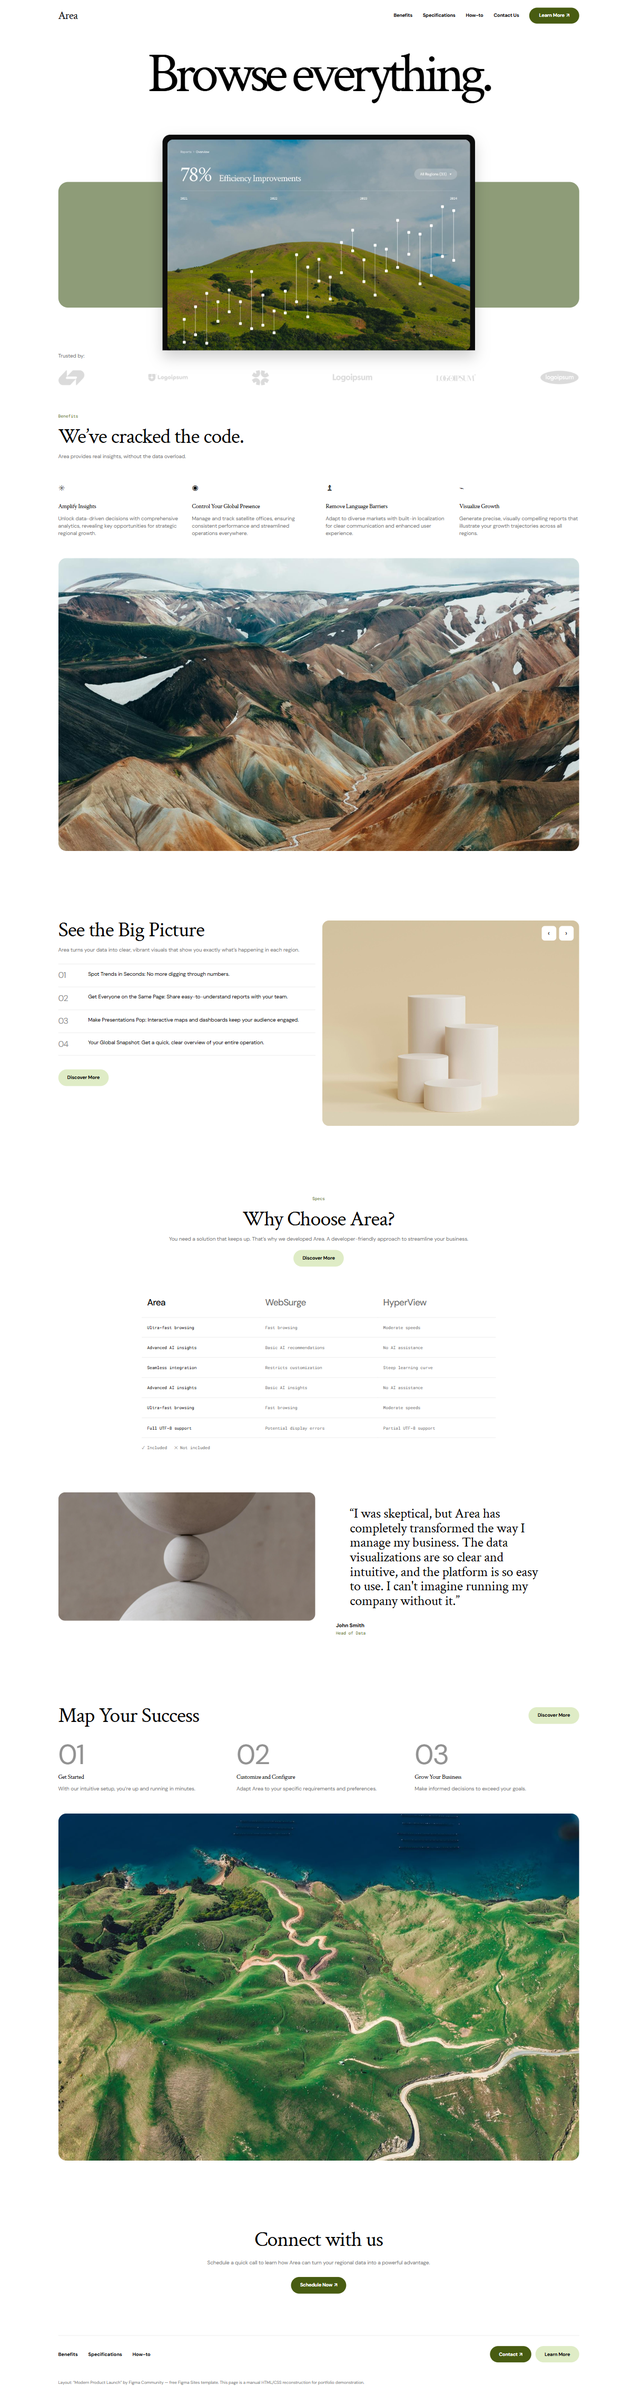
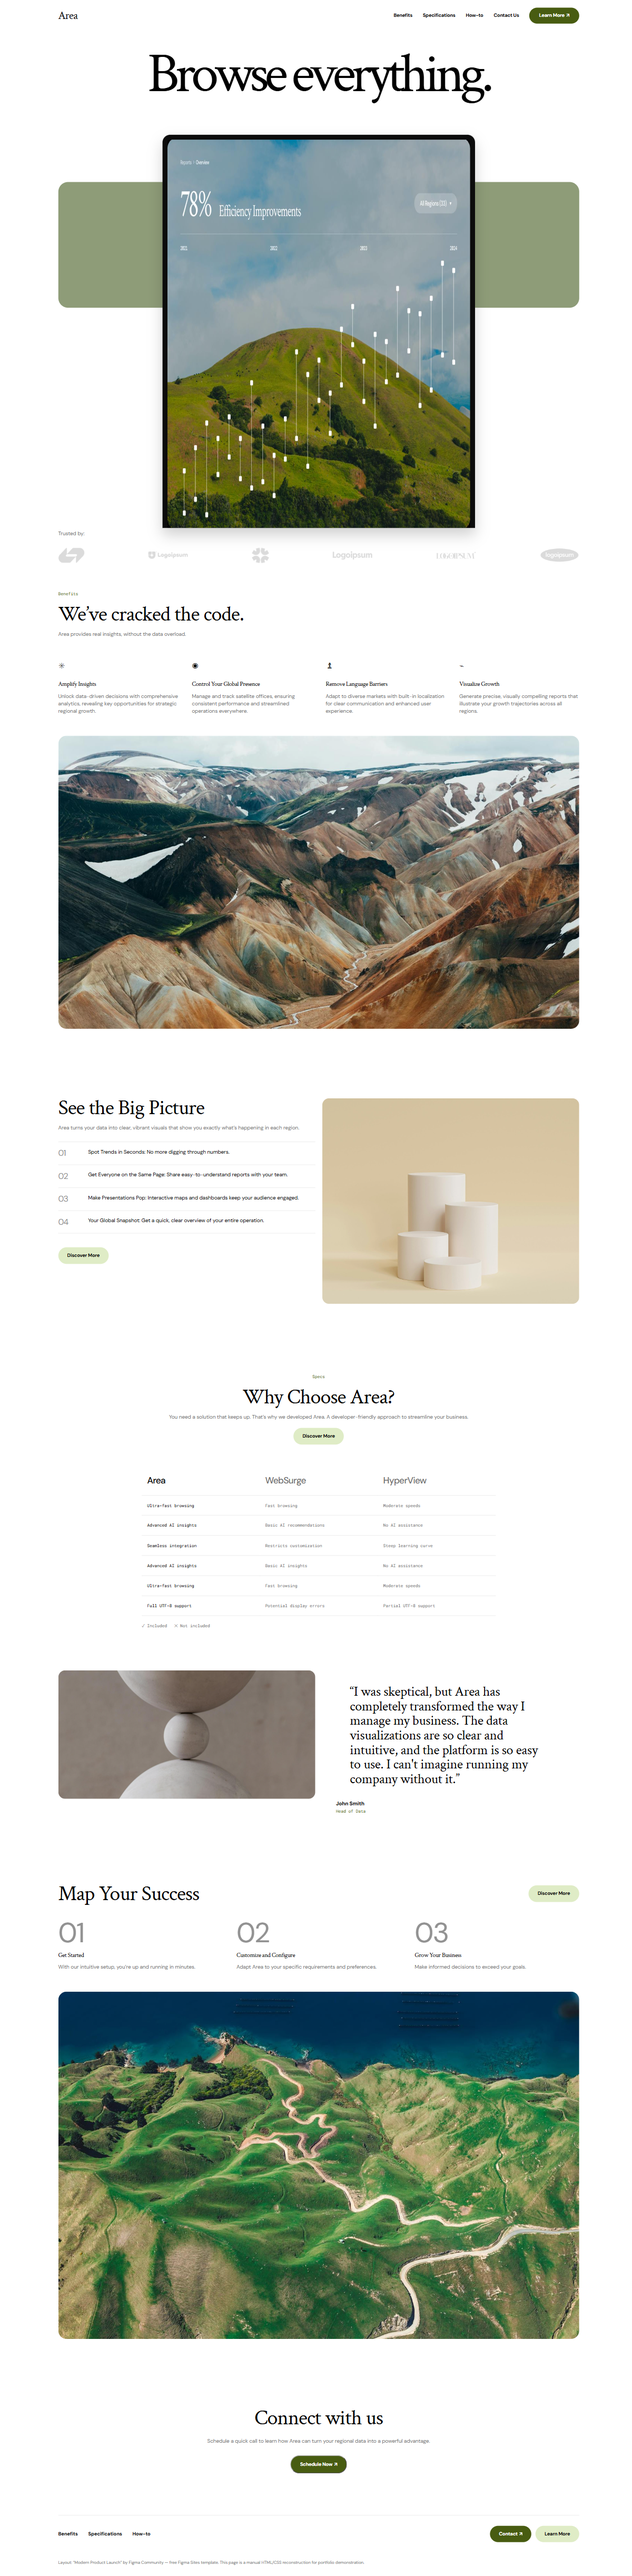
fix: убрать выдуманный слайдер и уточнить интерактив

diff --git a/index.html b/index.html
@@ -31,7 +31,7 @@
         <div class="hero-visual">
           <div class="sage-panel"></div>
           <div class="laptop">
-            <img src="assets/hero-dashboard.jpg" alt="Area dashboard with 78% efficiency improvements over a landscape chart" width="869" height="607">
+            <img src="assets/hero-dashboard.jpg" alt="Area dashboard with 78% efficiency improvements over a landscape chart" width="1600" height="1118">
           </div>
         </div>
       </div>
@@ -80,7 +80,7 @@
         </div>
       </div>
       <div class="container">
-        <img class="banner" src="assets/mountains.jpg" alt="Snow-covered mountain ridge seen from above" width="1500" height="845">
+        <img class="banner" src="assets/mountains.jpg" alt="Snow-covered mountain ridge seen from above" width="1600" height="900">
       </div>
     </section>
 
@@ -97,13 +97,7 @@
           </ol>
           <a class="btn btn-lime" href="#specs">Discover More</a>
         </div>
-        <div class="slider" aria-label="Product images">
-          <img id="slide" src="assets/podium.jpg" alt="Three white cylindrical podiums on a warm beige background" width="740" height="835">
-          <div class="slider-controls">
-            <button type="button" data-slide="prev" aria-label="Previous image">‹</button>
-            <button type="button" data-slide="next" aria-label="Next image">›</button>
-          </div>
-        </div>
+        <img class="podium" src="assets/podium.jpg" alt="Three white cylindrical podiums on a warm beige background" width="1600" height="1280">
       </div>
     </section>
 
@@ -135,7 +129,7 @@
 
     <section class="section quote">
       <div class="container two-col">
-        <img src="assets/spheres.jpg" alt="Balanced concrete spheres" width="740" height="840">
+        <img src="assets/spheres.jpg" alt="Balanced concrete spheres" width="1600" height="800">
         <figure>
           <blockquote>“I was skeptical, but Area has completely transformed the way I manage my business. The data visualizations are so clear and intuitive, and the platform is so easy to use. I can't imagine running my company without it.”</blockquote>
           <figcaption><strong>John Smith</strong><br><span>Head of Data</span></figcaption>
@@ -154,7 +148,7 @@
           <article><span class="num">02</span><h3>Customize and Configure</h3><p>Adapt Area to your specific requirements and preferences.</p></article>
           <article><span class="num">03</span><h3>Grow Your Business</h3><p>Make informed decisions to exceed your goals.</p></article>
         </div>
-        <img class="banner" src="assets/landscape.jpg" alt="Aerial view of a green valley and winding road" width="1500" height="845">
+        <img class="banner" src="assets/landscape.jpg" alt="Aerial view of a green valley and winding road" width="1500" height="1000">
       </div>
     </section>
 
@@ -162,7 +156,8 @@
       <div class="container">
         <h2>Connect with us</h2>
         <p class="muted">Schedule a quick call to learn how Area can turn your regional data into a powerful advantage.</p>
-        <a class="btn btn-olive" href="#top">Schedule Now <span aria-hidden="true">↗</span></a>
+        <button class="btn btn-olive" type="button" id="schedule">Schedule Now <span aria-hidden="true">↗</span></button>
+        <p class="demo-note" id="demo-note" role="status" hidden>Demo layout — booking is not connected.</p>
       </div>
     </section>
   </main>

diff --git a/script.js b/script.js
@@ -1,23 +1,20 @@
 const burger = document.querySelector('.burger');
 const nav = document.getElementById('nav');
 
-burger.addEventListener('click', () => {
-  const open = nav.classList.toggle('open');
+function setMenu(open) {
+  nav.classList.toggle('open', open);
   burger.setAttribute('aria-expanded', String(open));
   burger.setAttribute('aria-label', open ? 'Close menu' : 'Open menu');
+}
+
+burger.addEventListener('click', () => setMenu(!nav.classList.contains('open')));
+nav.querySelectorAll('a').forEach((link) => link.addEventListener('click', () => setMenu(false)));
+document.addEventListener('keydown', (e) => { if (e.key === 'Escape') setMenu(false); });
+document.addEventListener('click', (e) => {
+  if (!nav.contains(e.target) && e.target !== burger) setMenu(false);
 });
 
-const slides = [
-  { src: 'assets/podium.jpg', alt: 'Three white cylindrical podiums on a warm beige background' },
-  { src: 'assets/spheres.jpg', alt: 'Balanced concrete spheres' }
-];
-const slide = document.getElementById('slide');
-let current = 0;
-
-document.querySelectorAll('[data-slide]').forEach((button) => {
-  button.addEventListener('click', () => {
-    current = (current + (button.dataset.slide === 'next' ? 1 : slides.length - 1)) % slides.length;
-    slide.src = slides[current].src;
-    slide.alt = slides[current].alt;
-  });
+document.getElementById('schedule').addEventListener('click', () => {
+  const note = document.getElementById('demo-note');
+  note.hidden = false;
 });

diff --git a/styles.css b/styles.css
@@ -73,10 +73,7 @@ h2{font:400 60px/.9 var(--serif);letter-spacing:-1.08px}
 .num{color:var(--grey);font:400 80px/.9 var(--sans);letter-spacing:-2.56px}
 .value-list .num{font-size:24px;line-height:1.2;letter-spacing:-1px;color:var(--grey)}
 .big-picture .btn{margin-top:40px}
-.slider{position:relative;border-radius:20px;overflow:hidden}
-.slider img{width:100%;height:auto;border-radius:20px}
-.slider-controls{position:absolute;right:16px;top:16px;display:flex;gap:8px}
-.slider-controls button{width:42px;height:42px;border:0;border-radius:9px;background:#fff;font-size:22px;line-height:1}
+.podium{width:100%;height:auto;border-radius:20px}
 
 /* specs */
 .specs-head{width:1020px;max-width:100%;margin:0 auto 60px;display:flex;flex-direction:column;align-items:center;text-align:center;gap:20px}
@@ -109,6 +106,7 @@ tbody tr td:not(:first-child),thead th:not(:first-child){color:var(--muted)}
 .contact > .container{display:flex;flex-direction:column;align-items:center;text-align:center;gap:30px}
 .contact h2{max-width:900px}
 .contact p{max-width:900px}
+.demo-note{font-size:13px;color:var(--muted)}
 .footer{padding:0 0 30px}
 .footer-inner{display:flex;justify-content:space-between;align-items:center;padding:30px 0;border-top:1px solid var(--line)}
 .footer nav{display:flex;gap:30px;font:700 14px/1.4 var(--sans)}

diff --git a/README.md b/README.md
@@ -21,7 +21,7 @@
 - Чистые HTML + CSS + vanilla JS, без сборщиков и фреймворков.
 - Дизайн-токены и типографика воспроизведены по макету (см. ниже).
 - Адаптив: 1024 / 768 / 480 px, на 360 px горизонтальной прокрутки нет.
-- JS только для интерактива: мобильное меню и переключатель картинок.
+- JS только для интерактива: мобильное меню; кнопка записи честно показывает, что бронирование не подключено.
 - SEO: title, description, один H1, `lang="en"`, alt у всех изображений.
 
 ## Дизайн-токены
